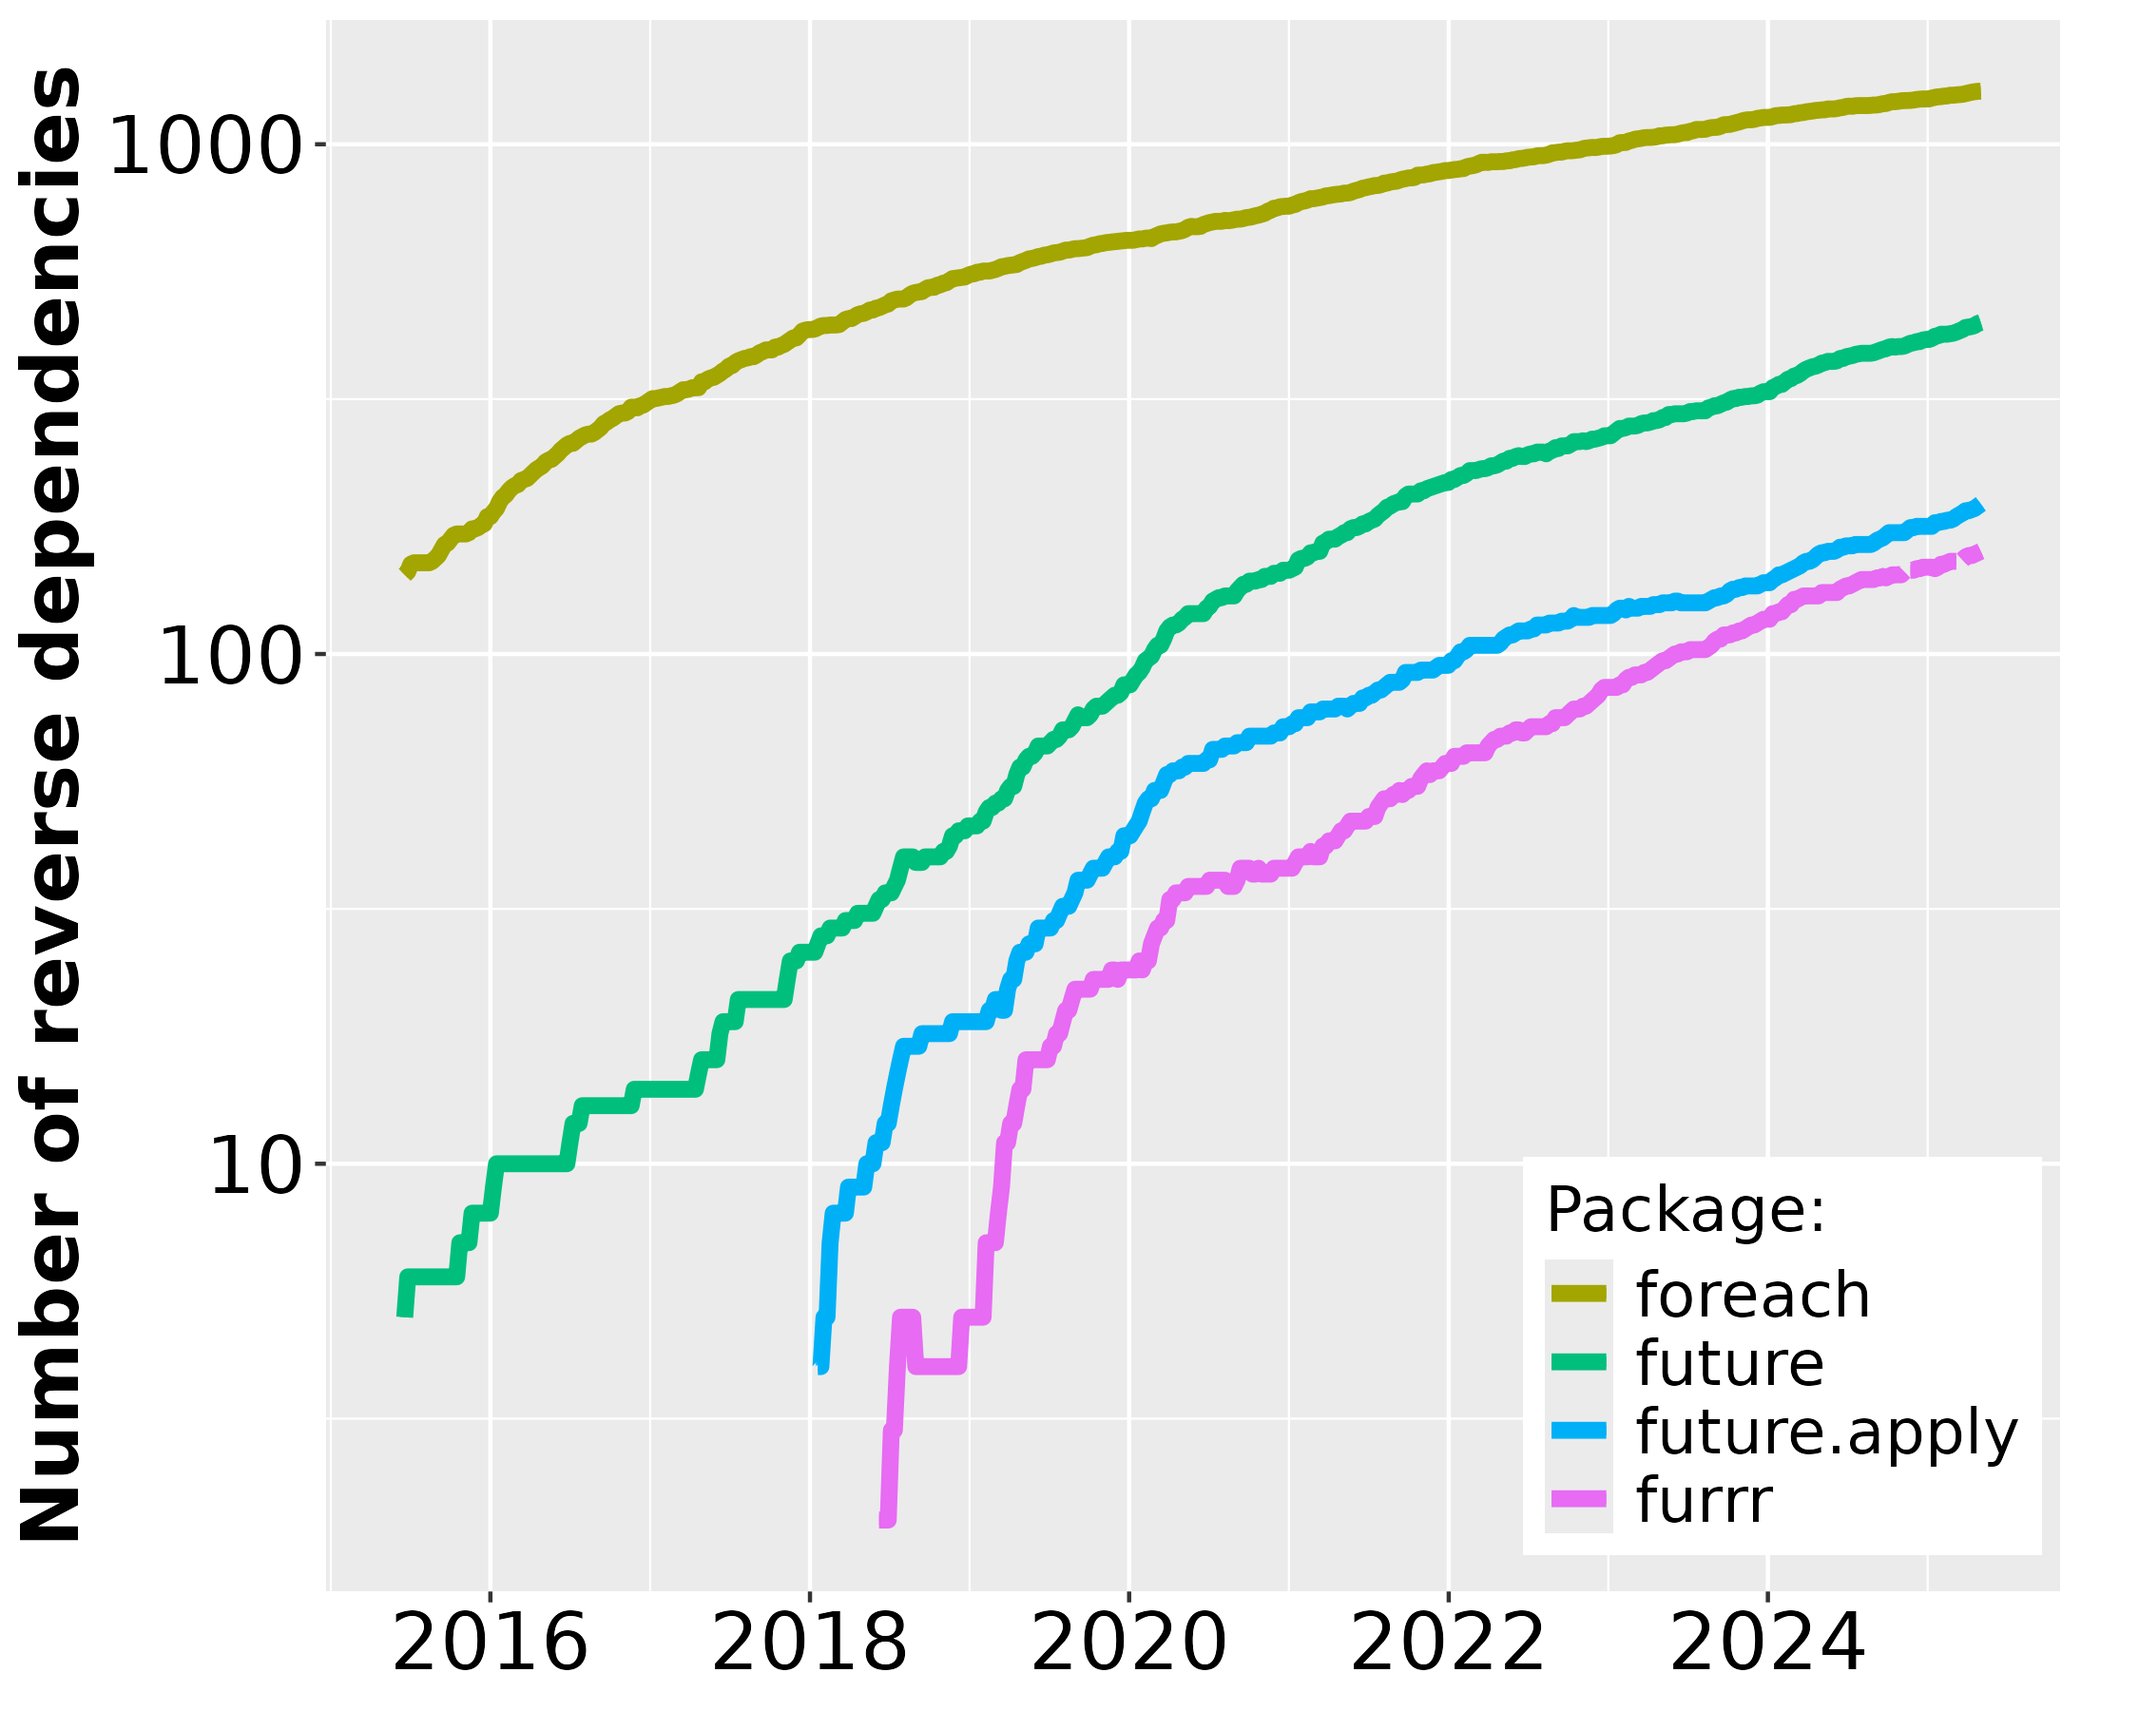
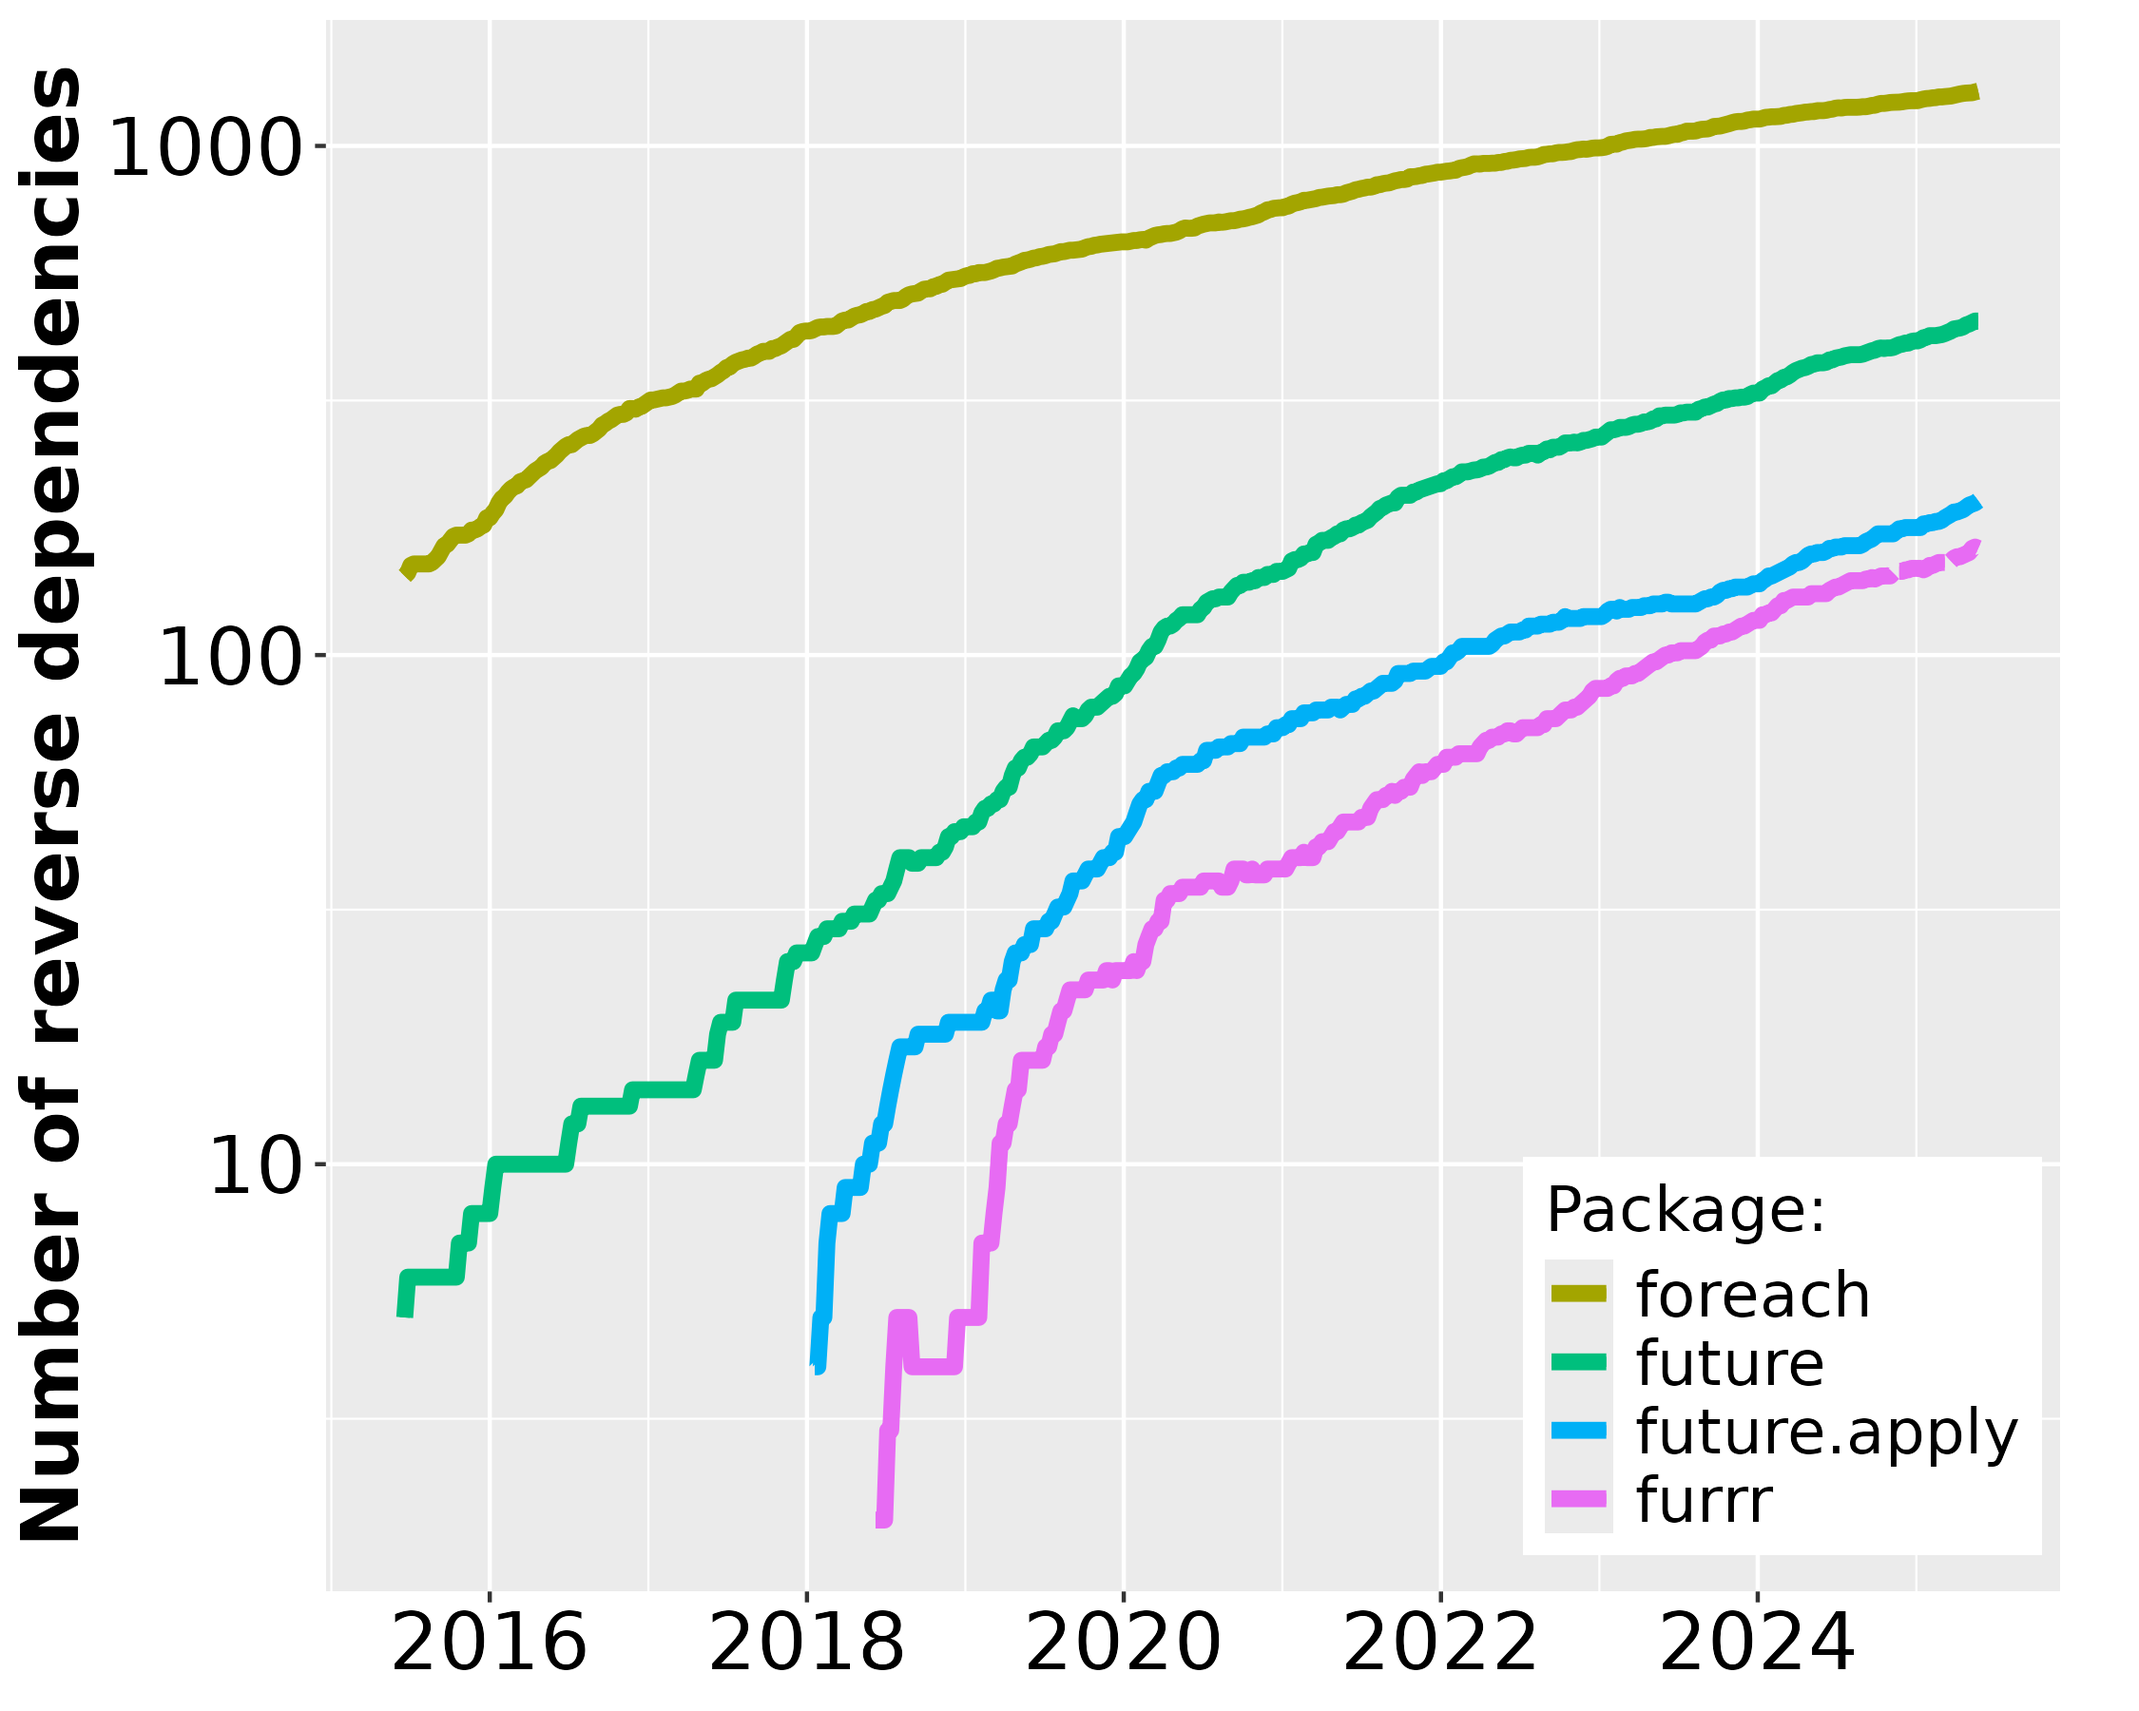
refresh

diff --git a/docs/usage.html b/docs/usage.html
@@ -529,7 +529,7 @@ gtag('config', 'G-SB3EQSD9FR', { 'anonymize_ip': true});
 </section>
 <section id="cran-statistics" class="level1">
 <h1>CRAN Statistics</h1>
-<p>Since the first CRAN release of <strong>future</strong> in June 2015, its uptake among end-users and package developers have grown steadily. During April 2025, <strong>future</strong> was among the top-0.8% most downloaded package on CRAN (Figure 1) and there are 450 packages on CRAN and Bioconductor that directly depend on it (Figure 2). For map-reduce parallelization packages <strong>future.apply</strong> (top-0.9% most downloaded) and and <strong>furrr</strong> (top 1.4%), the corresponding number of packages are 200 and 160, respectively. If we consider recursive dependencies too, that is, packages that use the <strong>future</strong> package either directly or indirectly via another package, then 85% of all ~22,500 CRAN packages may rely on the future framework for their processing.</p>
+<p>Since the first CRAN release of <strong>future</strong> in June 2015, its uptake among end-users and package developers have grown steadily. During May 2025, <strong>future</strong> was among the top-0.7% most downloaded package on CRAN (Figure 1) and there are 450 packages on CRAN and Bioconductor that directly depend on it (Figure 2). For map-reduce parallelization packages <strong>future.apply</strong> (top-0.9% most downloaded) and and <strong>furrr</strong> (top 1.4%), the corresponding number of packages are 200 and 160, respectively. If we consider recursive dependencies too, that is, packages that use the <strong>future</strong> package either directly or indirectly via another package, then 85% of all ~22,500 CRAN packages may rely on the future framework for their processing.</p>
 <!--
 pkgs <- revdepcheck:::cran_revdeps("future")
 pkgs <- tools::package_dependencies("future", which="all", reverse=TRUE, recursive=TRUE)        
@@ -541,7 +541,7 @@ pkgs <- tools::package_dependencies("future", which="all", reverse=TRUE, recursi
 </div>
 <p><em>Figure 1: The download percentile ranks for <strong>future</strong>, <strong>future.apply</strong>, <strong>furrr</strong>, and <strong>foreach</strong> averaged every four weeks. <strong>future</strong> is among the top-0.8% most downloaded packages on CRAN. The data are based on the Posit CRAN mirror logs. There are approximately 200 million package downloads per month from the Posit CRAN mirror alone. Since none of the other CRAN mirrors provide statistics, it is impossible to know the total amount of package installations.</em></p>
 <!-- [https://cranlogs.r-pkg.org/downloads/total/last-month] -->
-<p>As a reference<a href="#fn1" class="footnote-ref" id="fnref1" role="doc-noteref"><sup>1</sup></a>, the popular <strong>foreach</strong>, released in 2009, was among the top-0.8% most downloaded packages during the same period and it has 1,270 reverse package dependencies on CRAN. The number of users that download <strong>future</strong> has grown rapidly whereas the the same number has slowly decreased for the <strong>foreach</strong> package (Figure 1). Similarly, the number of reverse package dependencies on <strong>future</strong> appear to grow faster than for <strong>foreach</strong> (Figure 2).</p>
+<p>As a reference<a href="#fn1" class="footnote-ref" id="fnref1" role="doc-noteref"><sup>1</sup></a>, the popular <strong>foreach</strong>, released in 2009, was among the top-0.8% most downloaded packages during the same period and it has 1,280 reverse package dependencies on CRAN. The number of users that download <strong>future</strong> has grown rapidly whereas the the same number has slowly decreased for the <strong>foreach</strong> package (Figure 1). Similarly, the number of reverse package dependencies on <strong>future</strong> appear to grow faster than for <strong>foreach</strong> (Figure 2).</p>
 <div class="quarto-layout-panel" data-layout-ncol="2">
 <div class="quarto-layout-row">
 <div class="quarto-layout-cell" style="flex-basis: 50.0%;justify-content: flex-start;">
